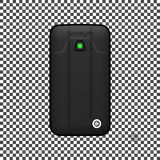
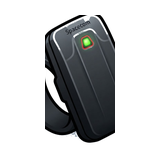
feat(estoque): atualiza UPR04 com emoji novo v6 (sem cinta, borda vermelha)

diff --git a/public/index.html b/public/index.html
@@ -6397,7 +6397,7 @@ function renderEstoque(){
   const porUnidadeEl=document.getElementById('estoquePorUnidade');
   if(!cont) return;
   const mats=['TZPR04','UPR04','FONTE04','CINTA','TRAVAS'];
-  const icons={ TZPR04:'<img src="/tzpr.png?v=6" alt="TZPR04" class="w-12 h-12 mx-auto object-contain bg-white rounded-lg" loading="lazy">', UPR04:'<img src="/upr.png?v=5" alt="UPR04" class="w-12 h-12 mx-auto object-contain bg-white rounded-lg" loading="lazy">', FONTE04:'🔌', CINTA:'<img src="/cinta.png?v=5" alt="CINTA" class="w-16 h-10 mx-auto object-contain bg-white rounded-lg" loading="lazy">', TRAVAS:'<img src="/travas.png?v=5" alt="TRAVAS" class="w-12 h-12 mx-auto object-contain bg-white rounded-lg" loading="lazy">' };
+  const icons={ TZPR04:'<img src="/tzpr.png?v=6" alt="TZPR04" class="w-12 h-12 mx-auto object-contain bg-white rounded-lg" loading="lazy">', UPR04:'<img src="/upr.png?v=6" alt="UPR04" class="w-12 h-12 mx-auto object-contain bg-white rounded-lg" loading="lazy">', FONTE04:'🔌', CINTA:'<img src="/cinta.png?v=5" alt="CINTA" class="w-16 h-10 mx-auto object-contain bg-white rounded-lg" loading="lazy">', TRAVAS:'<img src="/travas.png?v=5" alt="TRAVAS" class="w-12 h-12 mx-auto object-contain bg-white rounded-lg" loading="lazy">' };
   let list=estoqueCache.filter(e=> String(e.contrato).toUpperCase()===estoqueContratoAtivo);
   if(estoqueUnidadeAtiva) list=list.filter(e=> String(e.unidade)===estoqueUnidadeAtiva);
   // se filtro Todas, mostrar agregado por material (soma unidades)
